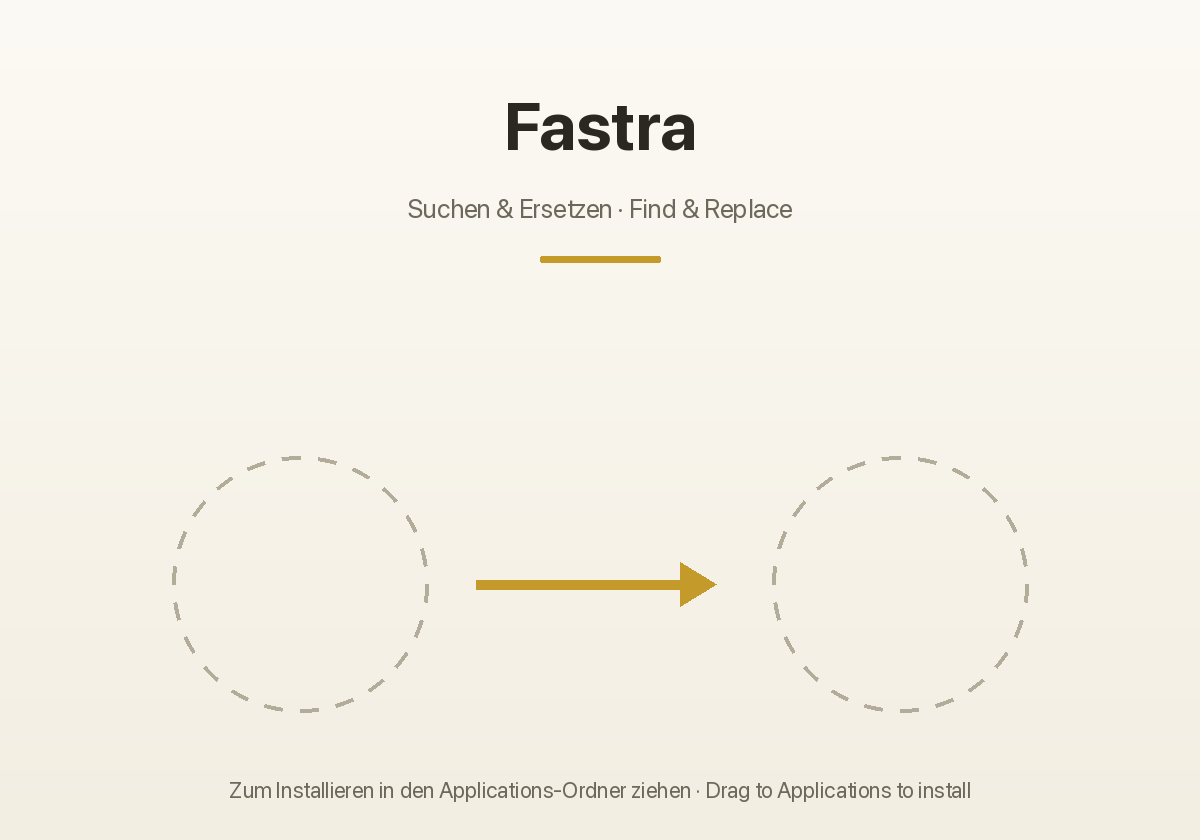
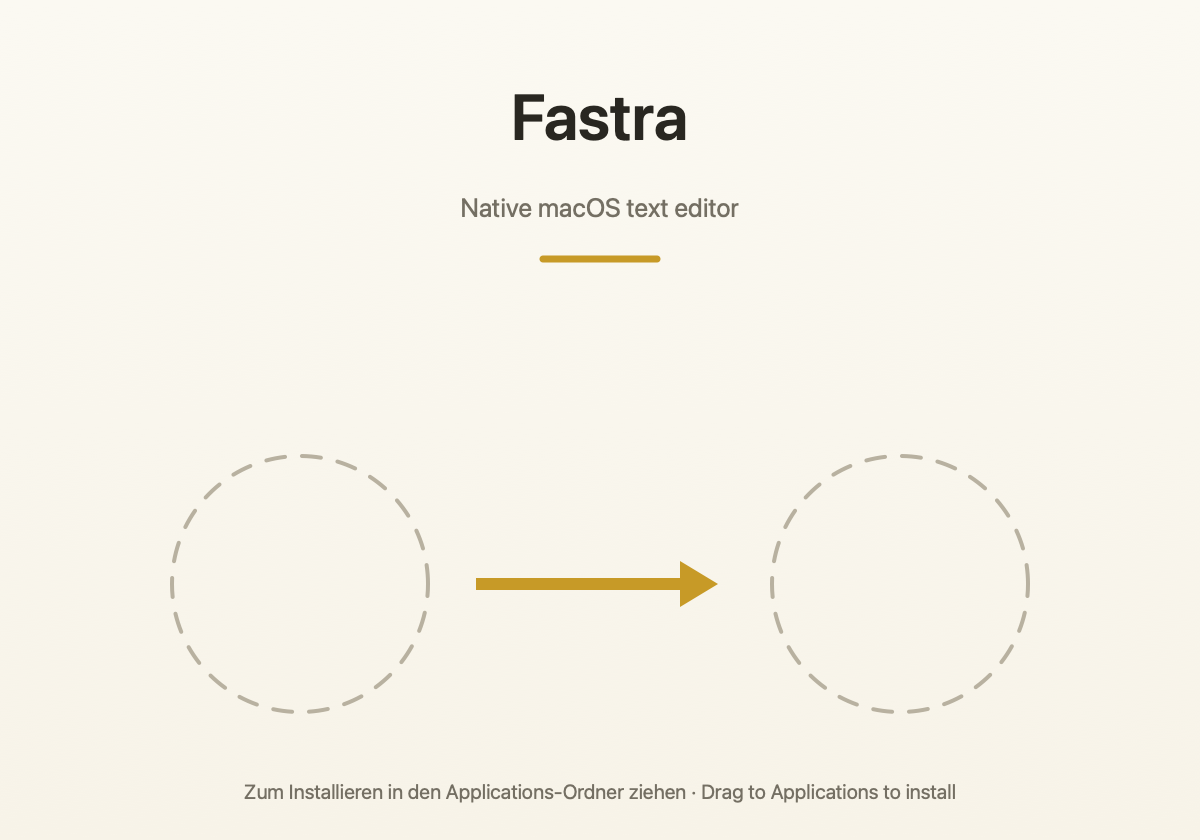
Fix first launch and DMG presentation

diff --git a/app/tools/generate-dmg-background.swift b/app/tools/generate-dmg-background.swift
@@ -1,0 +1,100 @@
+import AppKit
+import CoreText
+
+// Reproduzierbarer 2×-Master für die 600 × 420 Punkte große DMG-Inhaltsfläche.
+// Finder legt App- und Programme-Icon später genau über die beiden Kreise.
+let size = NSSize(width: 1200, height: 840)
+guard let bitmap = NSBitmapImageRep(
+    bitmapDataPlanes: nil,
+    pixelsWide: Int(size.width),
+    pixelsHigh: Int(size.height),
+    bitsPerSample: 8,
+    samplesPerPixel: 4,
+    hasAlpha: true,
+    isPlanar: false,
+    colorSpaceName: .deviceRGB,
+    bytesPerRow: 0,
+    bitsPerPixel: 0
+) else { exit(1) }
+bitmap.size = size
+
+let fontURL = URL(fileURLWithPath: "Sources/Fastra/Resources/Sora-SemiBold.ttf")
+CTFontManagerRegisterFontsForURL(fontURL as CFURL, .process, nil)
+
+func color(_ hex: UInt32) -> NSColor {
+    NSColor(
+        red: CGFloat((hex >> 16) & 0xff) / 255,
+        green: CGFloat((hex >> 8) & 0xff) / 255,
+        blue: CGFloat(hex & 0xff) / 255,
+        alpha: 1
+    )
+}
+
+func centeredText(_ text: String, y: CGFloat, font: NSFont, color: NSColor) {
+    let attributes: [NSAttributedString.Key: Any] = [.font: font, .foregroundColor: color]
+    let measured = text.size(withAttributes: attributes)
+    text.draw(at: NSPoint(x: (size.width - measured.width) / 2, y: y),
+              withAttributes: attributes)
+}
+
+guard let graphicsContext = NSGraphicsContext(bitmapImageRep: bitmap) else { exit(1) }
+NSGraphicsContext.saveGraphicsState()
+NSGraphicsContext.current = graphicsContext
+let context = graphicsContext.cgContext
+
+// Sehr dezenter warmer Verlauf wie in der App, ohne transparente Außenkante.
+let gradient = CGGradient(
+    colorsSpace: CGColorSpaceCreateDeviceRGB(),
+    colors: [color(0xFBF9F2).cgColor, color(0xF7F3E8).cgColor] as CFArray,
+    locations: [0, 1]
+)!
+context.drawLinearGradient(gradient,
+                           start: CGPoint(x: 600, y: 840),
+                           end: CGPoint(x: 600, y: 0),
+                           options: [])
+
+let ink = color(0x292721)
+let muted = color(0x746F63)
+let gold = color(0xC79A27)
+let dashed = color(0xB8B1A0)
+
+let titleFont = NSFont(name: "Sora-SemiBold", size: 64)
+    ?? NSFont.systemFont(ofSize: 64, weight: .semibold)
+centeredText("Fastra", y: 686, font: titleFont, color: ink)
+centeredText("Native macOS text editor", y: 618,
+             font: .systemFont(ofSize: 26, weight: .regular), color: muted)
+
+context.setStrokeColor(gold.cgColor)
+context.setLineWidth(7)
+context.setLineCap(.round)
+context.move(to: CGPoint(x: 543, y: 581))
+context.addLine(to: CGPoint(x: 657, y: 581))
+context.strokePath()
+
+context.setStrokeColor(dashed.cgColor)
+context.setLineWidth(4)
+context.setLineDash(phase: 0, lengths: [19, 17])
+for centerX in [300.0, 900.0] {
+    context.strokeEllipse(in: CGRect(x: centerX - 128, y: 128, width: 256, height: 256))
+}
+context.setLineDash(phase: 0, lengths: [])
+
+// Pfeil zwischen App und Programme-Ordner.
+context.setFillColor(gold.cgColor)
+context.fill(CGRect(x: 476, y: 250, width: 207, height: 12))
+context.beginPath()
+context.move(to: CGPoint(x: 718, y: 256))
+context.addLine(to: CGPoint(x: 680, y: 279))
+context.addLine(to: CGPoint(x: 680, y: 233))
+context.closePath()
+context.fillPath()
+
+centeredText("Zum Installieren in den Applications-Ordner ziehen · Drag to Applications to install",
+             y: 36, font: .systemFont(ofSize: 20, weight: .regular), color: muted)
+
+NSGraphicsContext.restoreGraphicsState()
+
+guard let png = bitmap.representation(using: .png, properties: [:]) else {
+    exit(1)
+}
+try png.write(to: URL(fileURLWithPath: "src/DmgBackground.png"), options: .atomic)

diff --git a/app/Sources/Fastra/Workspace.swift b/app/Sources/Fastra/Workspace.swift
@@ -439,43 +439,19 @@ final class Workspace: ObservableObject {
         // Nutzer-Defaults gemüllt (Befund 2026-06-11, 16 Leichen).
         self.defaultsStore = defaults
 
-        // Demo-Inhalt NUR beim allerersten Start (Interview-Erkenntnis 4:
-        // leerer Start verhindert Einstieg — aber wer die App kennt, will
-        // nicht bei jedem Start das Adressbuch-Demo wegklicken müssen).
-        // `consumeFirstLaunch` setzt das UserDefaults-Flag gleich mit.
-        if DemoData.consumeFirstLaunch(defaults: defaults) {
-            let demo = EditorTab(
-                title: "contacts.md",
-                path: L10n.string("Demo · noch nicht gespeichert"),
-                content: DemoData.editorContent(for: "contacts.md"),
-                hits: 8
-            )
-            self.tabs = [demo]
-            self.activeTabID = demo.id
-            // Das vorbelegte E-Mail-Pattern (Property-Default oben) bleibt
-            // beim ersten Start stehen — Demo-Text und Pattern gehören
-            // als Paar zusammen.
-            // Scope auf DATEI statt Ordner: das Demo-Pattern matcht im
-            // Demo-Tab (Buffer). Im Ordner-Scope sähe ein neuer Nutzer
-            // stattdessen „Kein Ordner ausgewählt." — genau der leere
-            // Einstieg, den das Demo verhindern soll (Befund 2026-06-11).
-            self.scope = .file
-        } else {
-            // Folgestarts: der Willkommen-Tab. Er zeigt die Willkommensseite
-            // (isWelcome) und heißt in der Leiste „Willkommen"; sein
-            // Unterbau-Titel ist der lokalisierte Basisname, damit er beim
-            // Umwandeln in ein echtes Dokument (Datei-/Projekt-Öffnen) direkt
-            // „Ohne Titel" bzw. „Untitled" zeigt. KEIN vorbelegtes Pattern.
-            let welcome = EditorTab(
-                title: Workspace.untitledBaseName,
-                path: L10n.string("noch nicht gespeichert"),
-                isWelcome: true
-            )
-            self.tabs = [welcome]
-            self.activeTabID = welcome.id
-            self.findPattern = ""
-            self.replacePattern = ""
-        }
+        // Auch eine vollständig frische Installation startet ausschließlich
+        // mit dem erklärenden Willkommen-Zustand. Ein automatisch geöffnetes
+        // Musterdokument wirkt wie eine fremde Datei und untergräbt bei einem
+        // lokalen Editor das Vertrauen in die Herkunft der angezeigten Daten.
+        let welcome = EditorTab(
+            title: Workspace.untitledBaseName,
+            path: L10n.string("noch nicht gespeichert"),
+            isWelcome: true
+        )
+        self.tabs = [welcome]
+        self.activeTabID = welcome.id
+        self.findPattern = ""
+        self.replacePattern = ""
         self.searchRunner = SearchRunner(workspace: self)
         Workspace.registerLive(self)
         Workspace.shared = self

diff --git a/app/Tests/FastraTests/FirstLaunchTests.swift b/app/Tests/FastraTests/FirstLaunchTests.swift
@@ -2,12 +2,7 @@ import Foundation
 import Testing
 @testable import Fastra
 
-// Tests für den Demo-Inhalt-beim-ersten-Start-Mechanismus.
-//
-// Hintergrund (Interview-Erkenntnis 4): Ein leerer Start-Zustand verhindert
-// den Einstieg — der ALLERERSTE Start lädt deshalb einen Demo-Tab mit
-// vorbelegtem E-Mail-Pattern. Jeder weitere Start beginnt wie ein normaler
-// Editor: leerer unbenannter Tab, kein vorbelegtes Pattern.
+// Tests für den vertrauenswürdigen Startzustand einer frischen Installation.
 //
 // Alle Tests nutzen eine eigene UserDefaults-Suite (eindeutiger Name pro
 // Test) statt `.standard` — sonst würden Testläufe das echte
@@ -20,29 +15,19 @@ private func makeFreshDefaults() -> (UserDefaults, suiteName: String) {
     return (UserDefaults(suiteName: suiteName)!, suiteName)
 }
 
-@Test("consumeFirstLaunch: erster Aufruf true, alle weiteren false")
-func consumeFirstLaunch_firstTrueThenFalse() {
-    let (defaults, suite) = makeFreshDefaults()
-    defer { defaults.removePersistentDomain(forName: suite) }
-
-    #expect(DemoData.consumeFirstLaunch(defaults: defaults) == true)
-    #expect(DemoData.consumeFirstLaunch(defaults: defaults) == false)
-    #expect(DemoData.consumeFirstLaunch(defaults: defaults) == false)
-}
-
-@Test("Workspace beim ersten Start: Demo-Tab + vorbelegtes Pattern")
+@Test("Workspace beim ersten Start: Willkommen ohne fremd wirkende Demodaten")
 @MainActor
-func workspace_firstLaunch_loadsDemo() {
+func workspace_firstLaunch_startsWithWelcome() {
     let (defaults, suite) = makeFreshDefaults()
     defer { defaults.removePersistentDomain(forName: suite) }
 
     let ws = Workspace(defaults: defaults)
     #expect(ws.tabs.count == 1)
-    #expect(ws.tabs.first?.title == "contacts.md")
-    // Der Demo-Inhalt muss wirklich geladen sein (nicht leer) …
-    #expect(ws.tabs.first?.content.contains("[email redacted]") == true)
-    // … und das vorbelegte Pattern gehört als Paar dazu.
-    #expect(ws.findPattern.isEmpty == false)
+    #expect(ws.tabs.first?.title == Workspace.untitledBaseName)
+    #expect(ws.tabs.first?.isWelcome == true)
+    #expect(ws.tabs.first?.content.isEmpty == true)
+    #expect(ws.findPattern.isEmpty == true)
+    #expect(ws.replacePattern.isEmpty == true)
 }
 
 @Test("Workspace bei Folgestarts: leerer Tab, kein Pattern")
@@ -51,9 +36,9 @@ func workspace_secondLaunch_startsEmpty() {
     let (defaults, suite) = makeFreshDefaults()
     defer { defaults.removePersistentDomain(forName: suite) }
 
-    // Erster Start „verbraucht" das Erststart-Flag …
+    // Erster Start …
     _ = Workspace(defaults: defaults)
-    // … der zweite simuliert den nächsten App-Start.
+    // … und der zweite simuliert den nächsten App-Start.
     let second = Workspace(defaults: defaults)
 
     #expect(second.tabs.count == 1)

diff --git a/app/Sources/Fastra/DemoData.swift b/app/Sources/Fastra/DemoData.swift
@@ -1,29 +1,7 @@
 import Foundation
 
-/// Statische Demo-Daten, damit das UI ohne echten Editor / echte Suche Sinn ergibt.
+/// Statische Demo-Daten für gezielte Selbsttests und Screenshots.
 enum DemoData {
-    /// UserDefaults-Schlüssel, der nach dem allerersten App-Start gesetzt
-    /// wird. Solange er fehlt, gilt der Start als „erster Start".
-    static let hasLaunchedBeforeKey = "fastra.hasLaunchedBefore"
-
-    /// Liefert `true` GENAU beim ersten Start (Schlüssel fehlt noch) und
-    /// setzt den Schlüssel dabei sofort — jeder weitere Aufruf liefert
-    /// `false`. „Consume", weil Abfrage und Verbrauch ein Schritt sind:
-    /// So kann kein zweiter Code-Pfad versehentlich auch noch „erster
-    /// Start" sehen. Der `defaults`-Parameter ist für Tests injizierbar
-    /// (eigene Suite statt der echten App-Defaults).
-    ///
-    /// Hintergrund (Interview-Erkenntnis 4, AGENTS.md): Ein LEERER
-    /// Start-Zustand verhindert den Einstieg — neue Nutzer brechen ab.
-    /// Deshalb lädt der allererste Start einen Demo-Tab mit vorbelegtem
-    /// Beispiel-Pattern. Alle folgenden Starts beginnen wie ein normaler
-    /// Editor mit leerem, unbenanntem Tab.
-    static func consumeFirstLaunch(defaults: UserDefaults = .standard) -> Bool {
-        if defaults.bool(forKey: hasLaunchedBeforeKey) { return false }
-        defaults.set(true, forKey: hasLaunchedBeforeKey)
-        return true
-    }
-
     static func editorContent(for title: String?) -> String {
         switch title {
         case "contacts.md":

diff --git a/app/Tests/FastraTests/HitExtractionTests.swift b/app/Tests/FastraTests/HitExtractionTests.swift
@@ -59,6 +59,9 @@ private func makeWorkspace(content: String, find: String, replace: String = "",
     ws.findPattern = find
     ws.replacePattern = replace
     ws.useRegex = isRegex
+    // Der Fixture prüft Extraktion aus genau diesem Tab. Nicht implizit auf
+    // Seiteneffekte eines früheren Erststart-Demos verlassen.
+    ws.scope = .file
     return ws
 }
 

diff --git a/CHANGELOG.md b/CHANGELOG.md
@@ -9,6 +9,23 @@ Versionsschema: `v0.x` bis zum produktiven Funktionsumfang, `v1.0` beim Release.
 
 ## [Unreleased]
 
+## [v1.17.3] — 2026-07-15
+
+### Behoben
+
+- Eine frische Installation startet nicht mehr mit dem automatisch erzeugten
+  Musterdokument `contacts.md`, das wie eine unbekannte fremde Datei wirken
+  konnte, sondern immer mit dem erklärenden Willkommensbildschirm ohne
+  vorbelegte Such- oder Ersetzungsdaten.
+- Das DMG-Fenster berücksichtigt den höheren Finder-Chrome aktueller
+  macOS-Versionen und zeigt seinen Hintergrund bis zur unteren Anleitung
+  vollständig statt abgeschnitten.
+
+### Geändert
+
+- Der reproduzierbar erzeugte DMG-Hintergrund verwendet für den Programmtitel
+  Sora SemiBold und beschreibt Fastra als „Native macOS text editor“.
+
 ## [v1.17.2] — 2026-07-15
 
 ### Behoben